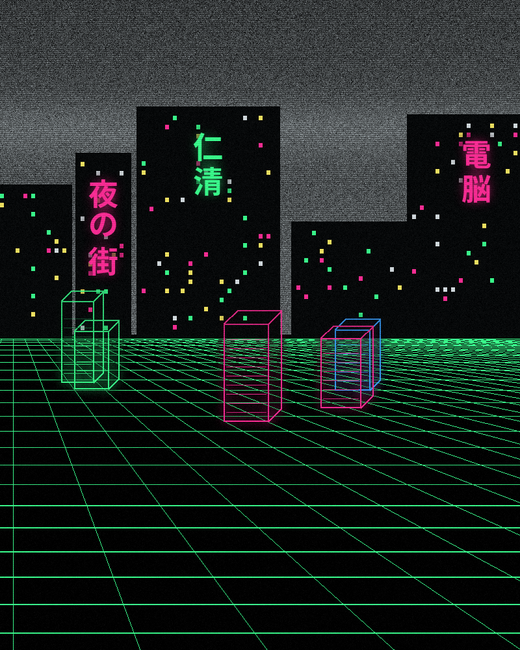
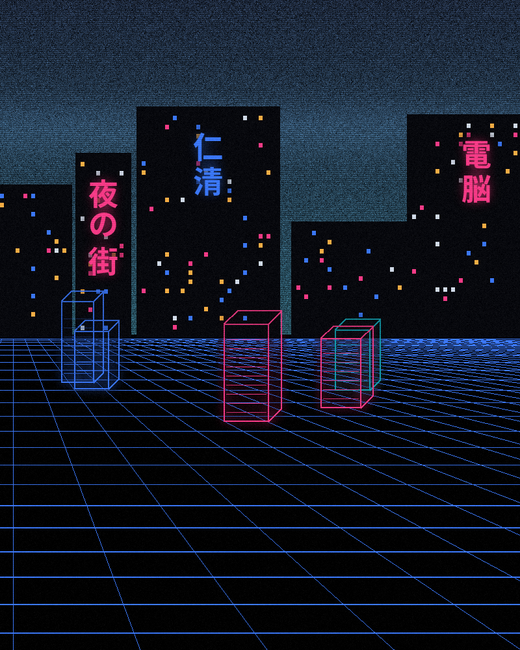
Neuromancer in the colours of the Apple TV series
The palette comes from the trailer's frames: electric blue accent
(#3D7BFF) with a pink neon gradient end (#FF3D8B), petrol teal (#13A5B5)
where the green was, indigo and blue-black surfaces, cool silver text.
The art follows: the dead-channel sky washed teal to indigo, a blue grid,
pink and blue neon, teal / blue / pink ICE towers; the banner re-cut.

diff --git a/tools/make-neuromancer-art.py b/tools/make-neuromancer-art.py
@@ -19,8 +19,9 @@ from PIL import Image, ImageDraw, ImageFilter, ImageFont
 REPO = os.path.dirname(os.path.dirname(os.path.abspath(__file__)))
 OUT = sys.argv[1] if len(sys.argv) > 1 else os.path.join(REPO, "assets")
 
-BG, FG = (7, 9, 10), (214, 222, 226)
-GREEN, GREEN_B, MAGENTA, AMBER, BLUE = (59, 255, 142), (157, 255, 198), (255, 46, 151), (245, 230, 99), (58, 160, 255)
+# the Apple TV series' colours: electric blue and indigo, petrol teal, a pink neon; GREEN now names the grid colour (electric blue)
+BG, FG = (8, 9, 14), (216, 226, 240)
+GREEN, GREEN_B, MAGENTA, AMBER, BLUE = (61, 123, 255), (159, 198, 255), (255, 61, 139), (255, 179, 71), (19, 165, 181)
 
 
 def font(names, size):
@@ -55,7 +56,10 @@ def dead_channel(w, h, top, rng):
     band = 30 * np.exp(-((np.arange(top)[:, None] - top * 0.62) / (top * 0.05)) ** 2)
     v = np.clip(base + noise + band, 0, 255)
     v[::3] *= 0.78
-    a = np.dstack([v * 0.93, v * 0.98, v]).astype("uint8")
+    # the series' wash: petrol teal near the horizon, indigo higher up
+    t = np.linspace(0, 1, top)[:, None]
+    r, g, b = v * (0.42 + 0.10 * (1 - t)), v * (0.55 + 0.30 * t), v * (0.95 + 0.05 * t)
+    a = np.dstack([np.broadcast_to(r, v.shape), np.broadcast_to(g, v.shape), np.broadcast_to(b, v.shape)]).clip(0, 255).astype("uint8")
     return Image.fromarray(a)
 
 
